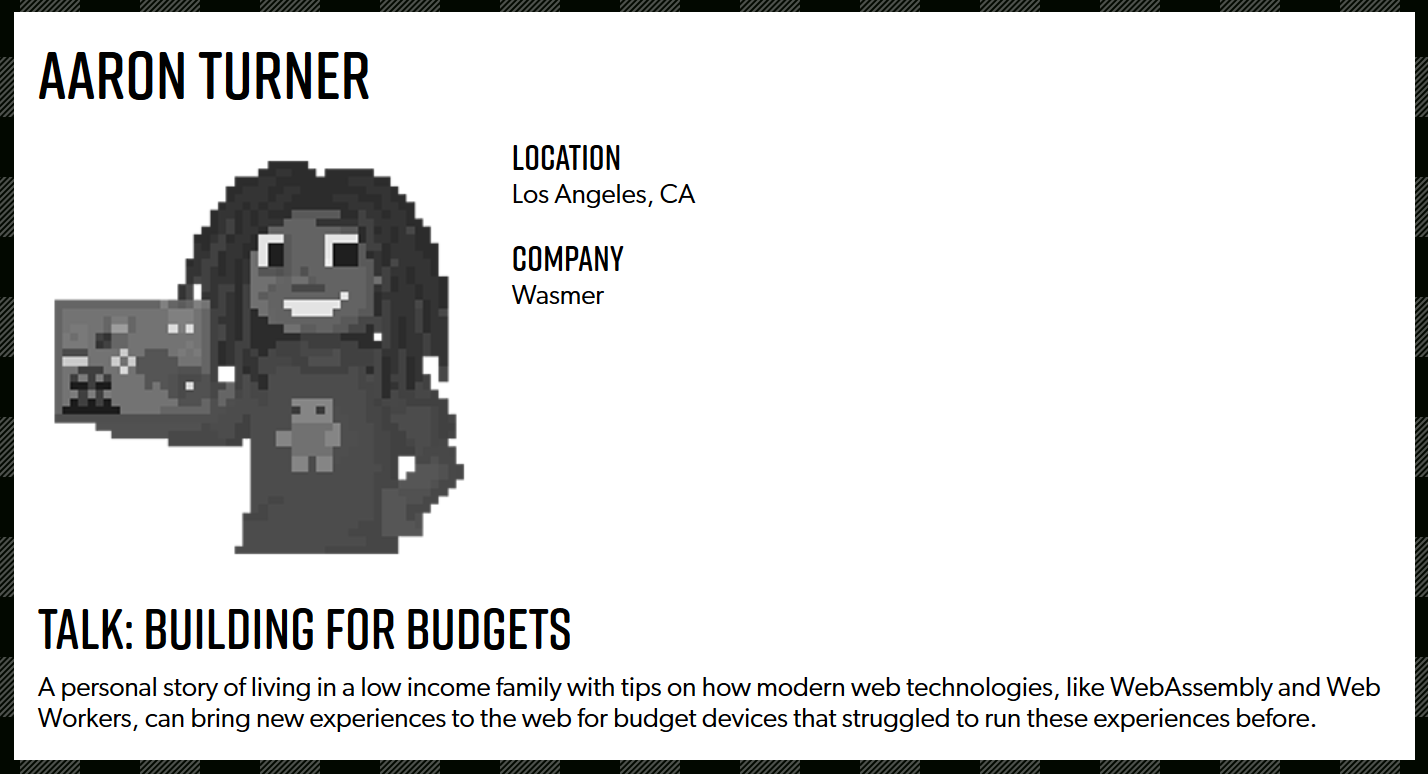
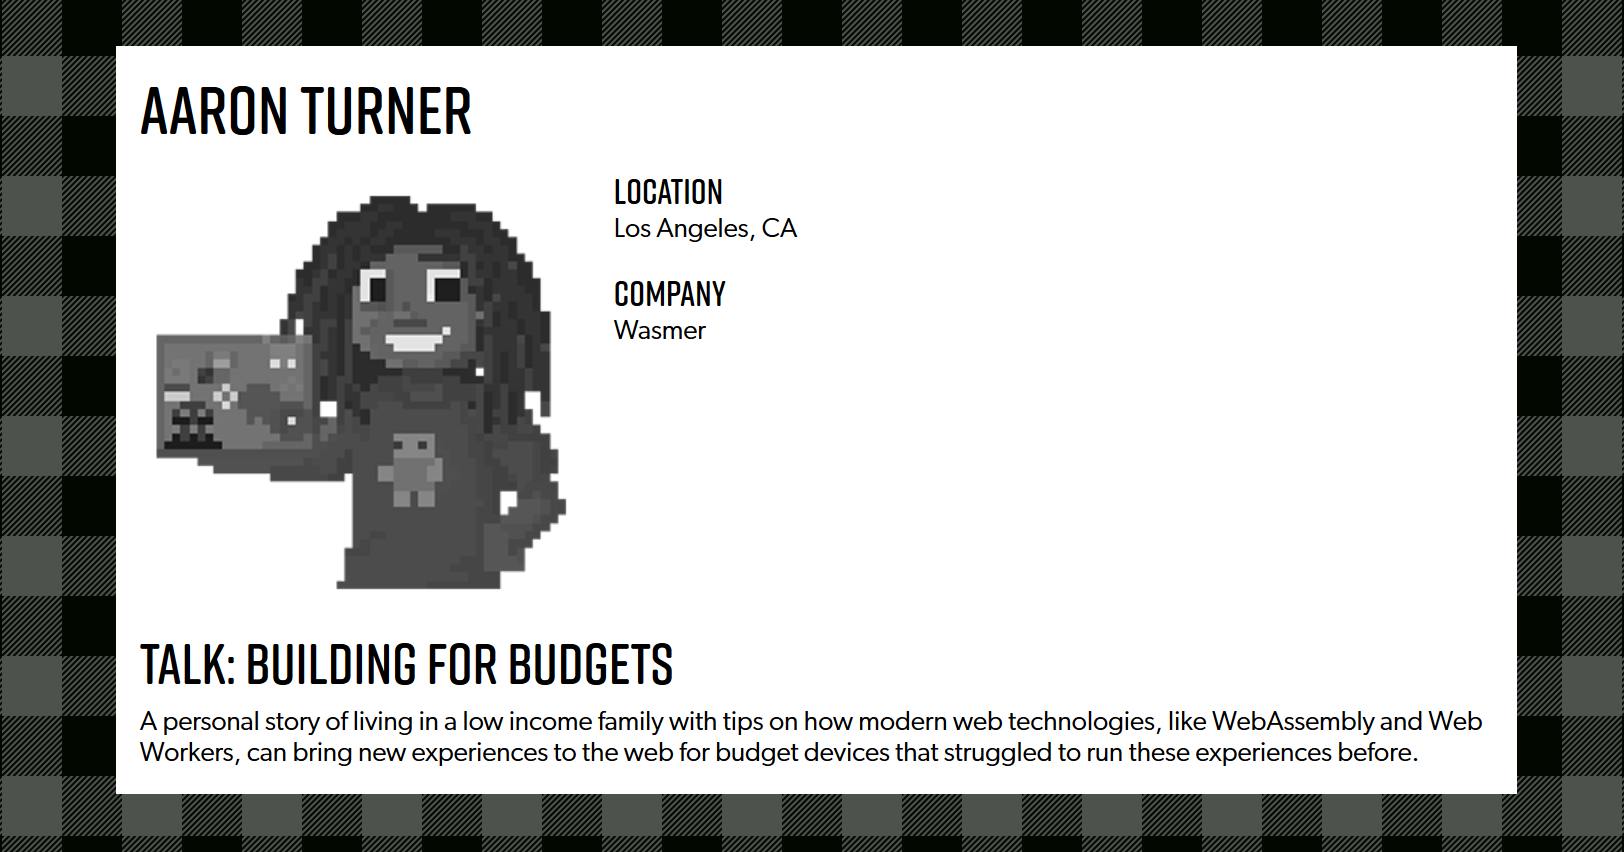
better social sharing image

diff --git a/public/styles/styles.css b/public/styles/styles.css
@@ -358,7 +358,7 @@ a.cta:hover {
 
 	#page {
 		width: 60vw;
-		margin: 8px auto;
+		margin: 32px auto;
 	}
 
 	header {
